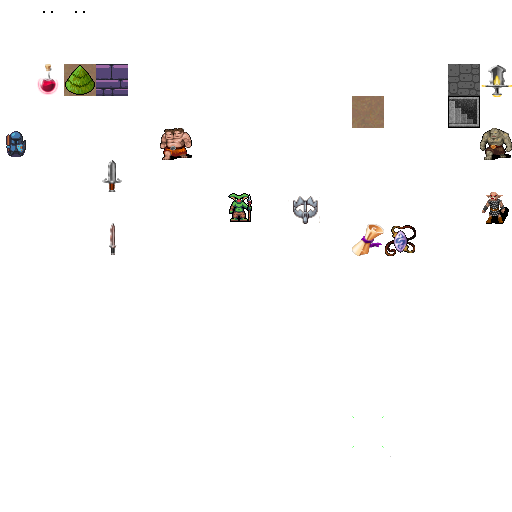
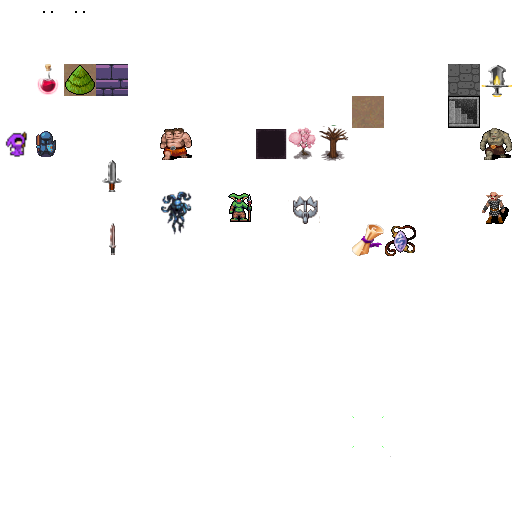
added theme and enemy

Changed region(s): [[0.5, 0.25, 0.6875, 0.3125], [0.0, 0.25, 0.125, 0.3125], [0.3125, 0.375, 0.375, 0.4688]]

diff --git a/src/map_builder/themes.rs b/src/map_builder/themes.rs
@@ -2,6 +2,7 @@ use crate::prelude::*;
 
 pub struct DungeonTheme {}
 pub struct ForestTheme {}
+pub struct MagicTheme {}
 
 // Base theme for dungeons
 impl DungeonTheme {
@@ -32,6 +33,22 @@ impl MapTheme for ForestTheme {
         match tile_type {
             TileType::Floor => to_cp437(';'),
             TileType::Wall => to_cp437('"'),
+            TileType::Exit => to_cp437('>'),
+        }
+    }
+}
+
+impl MagicTheme {
+    pub fn new() -> Box<dyn MapTheme> {
+        Box::new(Self {})
+    }
+}
+
+impl MapTheme for MagicTheme {
+    fn tile_to_render(&self, tile_type: TileType) -> FontCharType {
+        match tile_type {
+            TileType::Floor => to_cp437('H'),
+            TileType::Wall => to_cp437('J'),
             TileType::Exit => to_cp437('>'),
         }
     }

diff --git a/src/map_builder/mod.rs b/src/map_builder/mod.rs
@@ -7,7 +7,7 @@ use self::{
     automata::CellularAutomataArchitect,
     drunkard::DrunkardsWalkArchitect,
     rooms::RoomsArchitect,
-    themes::{DungeonTheme, ForestTheme},
+    themes::{DungeonTheme, ForestTheme, MagicTheme},
 };
 mod automata;
 mod drunkard;
@@ -47,8 +47,9 @@ impl MapBuilder {
         let mut mb = architect.new(rng);
         apply_prefab(&mut mb, rng);
 
-        mb.theme = match rng.range(0, 2) {
-            0 => DungeonTheme::new(),
+        mb.theme = match rng.range(0, 5) {
+            0..=3 => DungeonTheme::new(),
+            4 => MagicTheme::new(),
             _ => ForestTheme::new(),
         };
 
